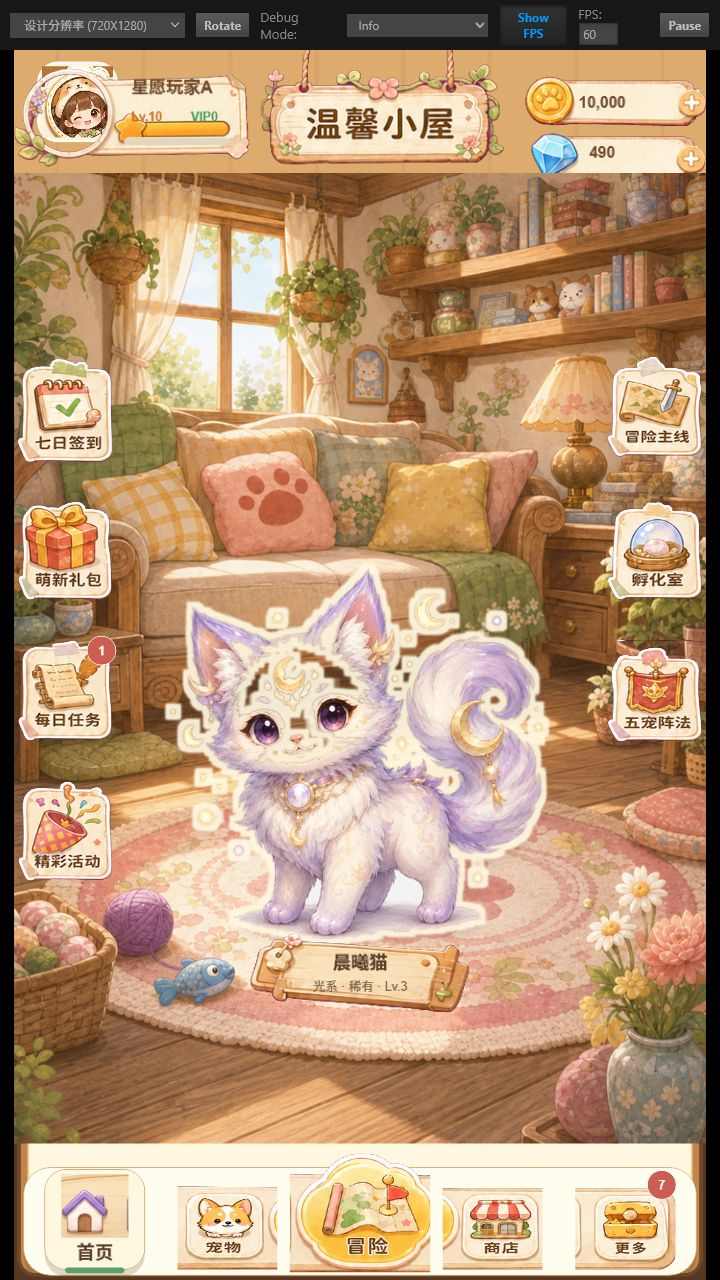
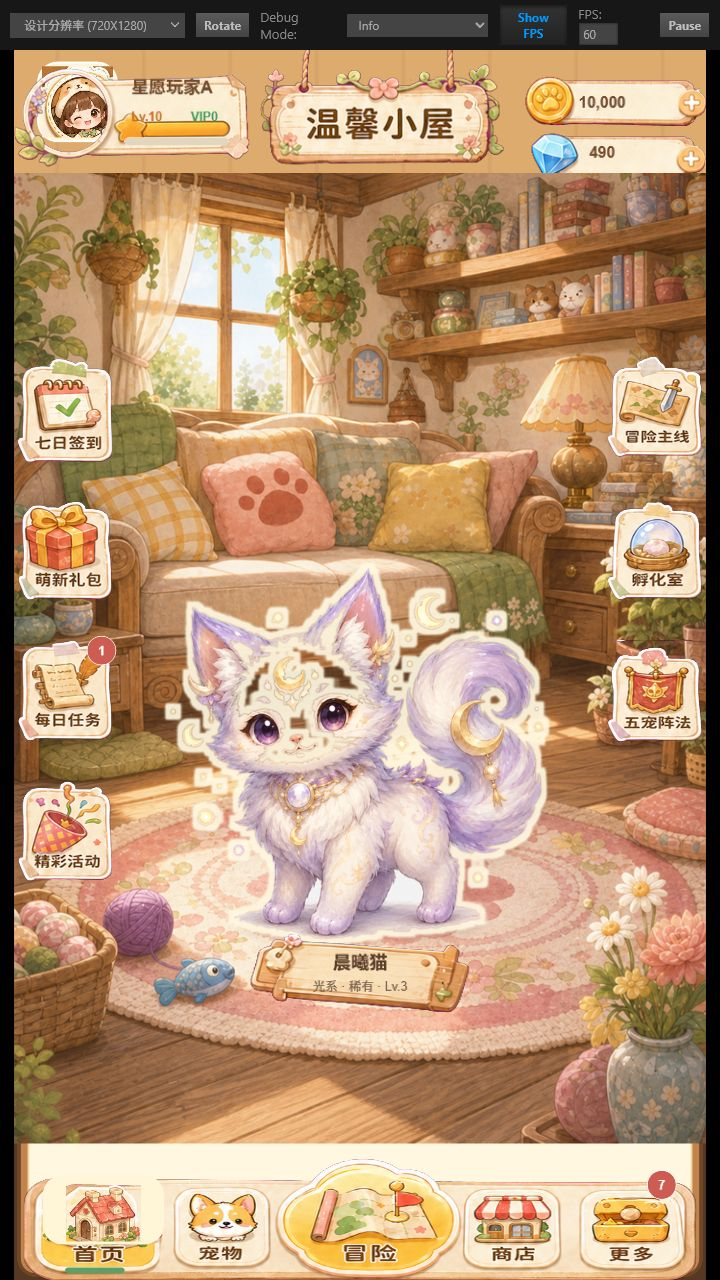
fix(ui): restore unified illustrated bottom navigation

Changed region(s): [[0.0306, 0.9062, 0.9778, 1.0]]

diff --git a/client/PetVerseClient/assets/scripts/ui/v2/HandPaintedUi.ts b/client/PetVerseClient/assets/scripts/ui/v2/HandPaintedUi.ts
@@ -324,53 +324,36 @@ export function renderBottomNavigation(
     notificationCount = 0,
 ) {
     clearNode(parent);
-    // Keep the illustrated navigation, but render each tab from its own slice of
-    // the source artwork. The original composite made the Home artwork larger than
-    // the other normal tabs and forced the entire strip through a non-uniform scale.
-    // Independent slices preserve the drawing while giving the four normal tabs a
-    // consistent visual size. Selected state is an underline, never an outline.
-    panel(parent, 'NavigationPaper', 0, -2, 700, 112, HandPaintedTheme.paper, 28, true, new Color(214, 169, 107, 230), 2);
+    // The five tabs are a single finished illustration. Rendering the source once
+    // keeps its shared paper base, borders, labels and icon scale intact; slicing it
+    // into separate sprites introduced seams and mixed visual sizes.
+    artImage(parent, 'NavigationArt', 'ui/home-v4/bottom-navigation-v4', 0, 0, 700, 126);
 
-    const slices: Record<MainTab, { resource: string; left: number; bottom: number; width: number; height: number; visualWidth: number; visualHeight: number }> = {
-        // The old composite Home artwork includes decorative green vines around the
-        // whole tab. Use the clean illustrated house from the existing nav asset so
-        // the selected state cannot look like a second green frame.
-        home: { resource: 'ui/panels/bottom_nav_bar', left: 34 / 600, bottom: 42 / 220, width: 112 / 600, height: 130 / 220, visualWidth: 70, visualHeight: 66 },
-        pet: { resource: 'ui/home-v4/bottom-navigation-v4', left: 150 / 720, bottom: 0, width: 132 / 720, height: 1, visualWidth: 104, visualHeight: 104 },
-        adventure: { resource: 'ui/home-v4/bottom-navigation-v4', left: 262 / 720, bottom: 0, width: 196 / 720, height: 1, visualWidth: 146, visualHeight: 124 },
-        shop: { resource: 'ui/home-v4/bottom-navigation-v4', left: 445 / 720, bottom: 0, width: 135 / 720, height: 1, visualWidth: 104, visualHeight: 104 },
-        more: { resource: 'ui/home-v4/bottom-navigation-v4', left: 566 / 720, bottom: 0, width: 152 / 720, height: 1, visualWidth: 104, visualHeight: 104 },
-    };
-
-    const navigationSlice = (name: string, x: number, y: number, tab: MainTab) => {
-        const config = slices[tab];
-        const node = new Node(name);
-        parent.addChild(node);
-        setRect(node, x, y, config.visualWidth, config.visualHeight);
-        const sprite = node.addComponent(Sprite);
-        sprite.sizeMode = Sprite.SizeMode.CUSTOM;
-        loadSpriteFrameResource(config.resource, (asset) => {
-            if (!node.isValid) return;
-            const source = asset.rect;
-            const rect = new Rect(
-                source.x + source.width * config.left,
-                source.y + source.height * config.bottom,
-                source.width * config.width,
-                source.height * config.height,
-            );
-            const frame = new SpriteFrame();
-            frame.reset({
-                texture: asset.texture,
-                rect,
-                originalSize: new Size(rect.width, rect.height),
-                offset: new Vec2(),
-                isRotate: false,
-            });
-            sprite.spriteFrame = frame;
-            sprite.sizeMode = Sprite.SizeMode.CUSTOM;
-            setRect(node, x, y, config.visualWidth, config.visualHeight);
+    // The source illustration intentionally makes the Home house much taller than
+    // the other normal icons. Preserve the shared bar and label, but replace only
+    // that icon area with a smaller crop from the same artwork. This keeps one art
+    // style while matching Pet, Shop and More visually.
+    panel(parent, 'HomeIconClear', -267, 10, 126, 72, new Color(255, 246, 216, 255), 20, false, CuteTheme.transparent, 0);
+    const homeIcon = new Node('HomeIcon');
+    parent.addChild(homeIcon);
+    setRect(homeIcon, -267, 10, 78, 66);
+    const homeSprite = homeIcon.addComponent(Sprite);
+    homeSprite.sizeMode = Sprite.SizeMode.CUSTOM;
+    loadSpriteFrameResource('ui/home-v4/bottom-navigation-v4', (asset) => {
+        if (!homeIcon.isValid) return;
+        const source = asset.rect;
+        const frame = new SpriteFrame();
+        frame.reset({
+            texture: asset.texture,
+            rect: new Rect(source.x + source.width * (20 / 720), source.y + source.height * (20 / 205), source.width * (130 / 720), source.height * (125 / 205)),
+            originalSize: new Size(130, 125),
+            offset: new Vec2(),
+            isRotate: false,
         });
-    };
+        homeSprite.spriteFrame = frame;
+        homeSprite.sizeMode = Sprite.SizeMode.CUSTOM;
+        setRect(homeIcon, -267, 10, 78, 66);
+    });
 
     MAIN_TABS.forEach((item, index) => {
         const selected = item.key === active;
@@ -379,13 +362,6 @@ export function renderBottomNavigation(
         const centerY = isAdventure ? 7 : 0;
         const hitWidth = isAdventure ? 148 : 112;
         const hitHeight = isAdventure ? 124 : 104;
-        if (item.key === 'home') {
-            panel(parent, 'HomeTabPaper', x, 0, 104, 104, new Color(255, 248, 224, 255), 22, true, new Color(211, 159, 91, 220), 2);
-            navigationSlice('Art_home', x, 14, item.key);
-            text(parent, 'HomeTabLabel', '首页', x, -34, 78, 28, 18, HandPaintedTheme.ink, 'center', true);
-        } else {
-            navigationSlice(`Art_${item.key}`, x, centerY, item.key);
-        }
         if (selected) {
             panel(
                 parent,
